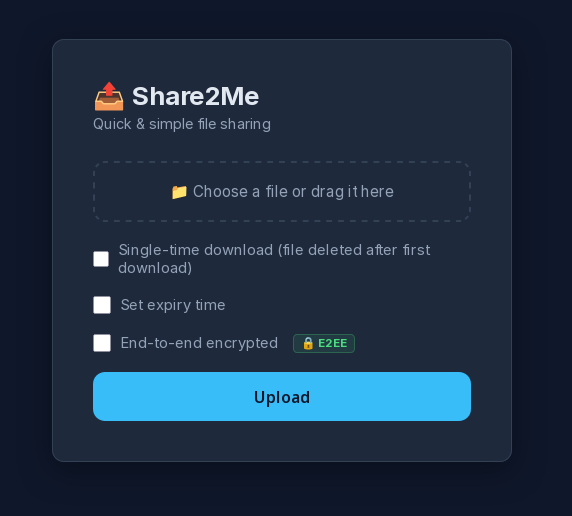
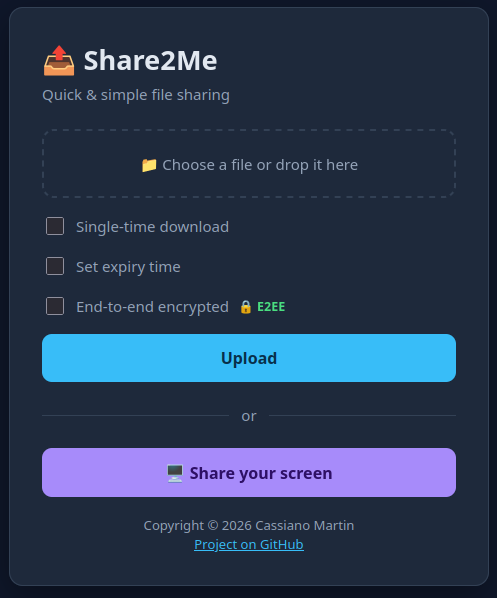
docs: update README to clarify live video sharing features and improve descriptions

diff --git a/README.md b/README.md
@@ -2,7 +2,7 @@
 
 ![Share2Me web UI](screenshot.png)
 
-Share2Me is a small self-hosted file and live-screen sharing server. It serves a browser UI and a curl-friendly file API over HTTPS, with no accounts or public listing.
+Share2Me is a small self-hosted file and live video-sharing server. It serves a browser UI and a curl-friendly file API over HTTPS, with no accounts or public listing.
 
 The server is implemented in safe Rust. The crate forbids application `unsafe` code, bounds every request body, streams uploads and downloads, and uses Rustls for TLS.
 
@@ -15,7 +15,7 @@ Rust is not a substitute for security controls, so the port also validates untru
 ## Features
 
 - Browser and command-line uploads, up to 512 MiB per file.
-- Low-latency browser screen sharing with available system audio and two-way microphones over WebRTC.
+- Low-latency live video sharing from the sharer's browser, typically a screen, window, or tab capture, with available system audio and two-way microphones over WebRTC.
 - Built-in media forwarding by default, with optional direct STUN or relay-only TURN modes.
 - Reusable named rooms with first-joiner sharing, participant presence, and live reactions.
 - Random, non-enumerable share links.
@@ -161,9 +161,11 @@ Then open `https://localhost:8443`. A new self-signed certificate causes an expe
 
 Unknown and malformed file tokens return the same `404 Not Found` response. Room names contain up to 48 lowercase letters, numbers, and hyphens, and must start and end with a letter or number.
 
-## Live screen sharing
+## Live video sharing
 
 Open `/share`, choose a room name, and send the resulting `/room/<name>` URL to the other participants. Room URLs are reusable: the first person to join an empty room is assigned the sharer role, and the next eight participants are viewers. Each person chooses a username, and the room sidebar shows the current sharer and viewers. If the sharer disconnects, connected viewers automatically rejoin; the first one back becomes the new sharer.
+
+This is a live video-sharing feature, not just a static screen-capture helper. The sharer chooses a browser capture source such as a tab, window, or screen, and Share2Me streams that WebRTC video track to the room. Video playback happens in the browser's built-in `<video>` element, while optional system audio and microphone streams travel over the same room connection.
 
 Named URLs are intentionally easier to remember but are also easier to guess than random bearer links. Anyone who knows a room name can join it, and anyone who reaches an empty room first becomes its sharer. Active participant and media state remains in memory, but the same named URL can be used again after the room empties or the server restarts.
 
